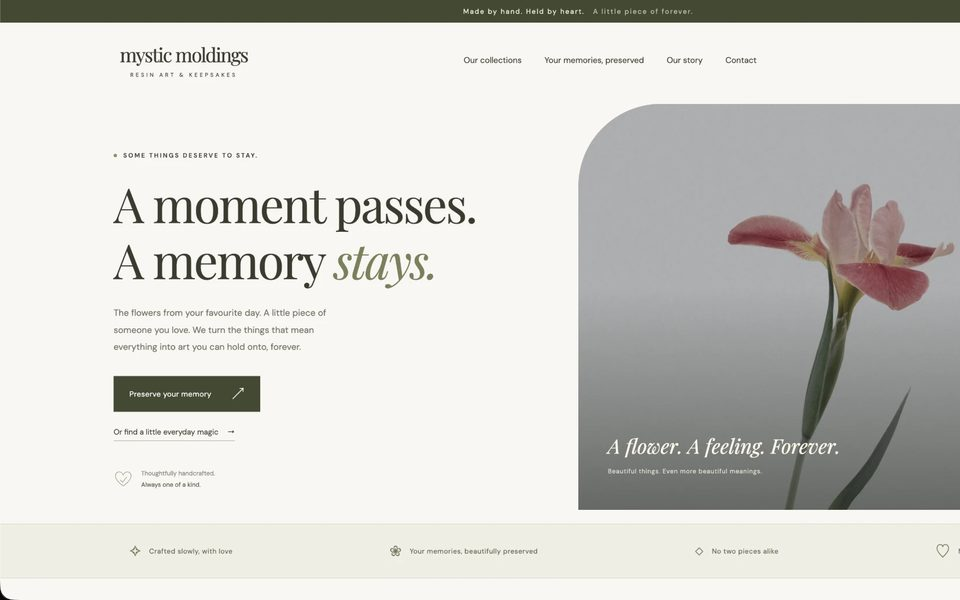
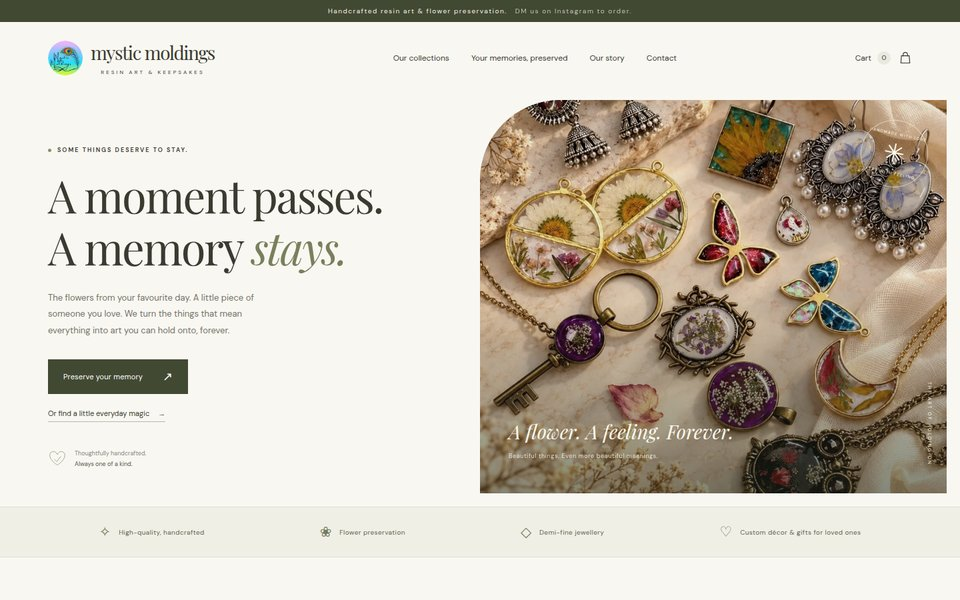
Update Mystic Moldings thumbnail to the redesigned site (#4)
Re-captured resin.sociobees.in's homepage (from the mysticmoldings repo) at
1440x900, scaled to 960x600 like the other work cards. Add ?v=2 so browsers
don't keep the old cached image.

Claude-Session: https://claude.ai/code/session_011ZMoPhypb2z3ShMVLpPe79

diff --git a/index.html b/index.html
@@ -278,7 +278,7 @@
             <a class="link" href="https://tools.sociobees.in" target="_blank" rel="noopener">tools.sociobees.in →</a>
           </article>
           <article class="card">
-            <div class="card-media has-img"><img src="work/resin.jpg" alt="Mystic Moldings homepage — handmade resin art and keepsakes" loading="lazy" width="960" height="600"></div>
+            <div class="card-media has-img"><img src="work/resin.jpg?v=2" alt="Mystic Moldings homepage — handmade resin art and keepsakes" loading="lazy" width="960" height="600"></div>
             <span class="card-tag">Web + Ecommerce</span>
             <h3>Mystic Moldings</h3>
             <p>Handmade resin art and keepsake brand — preserved-flower pieces made to order.</p>

diff --git a/work.html b/work.html
@@ -70,7 +70,7 @@
       <a class="link" href="https://tools.sociobees.in" target="_blank" rel="noopener">tools.sociobees.in →</a>
     </article>
     <article class="card">
-      <div class="card-media has-img"><img src="work/resin.jpg" alt="Mystic Moldings homepage — handmade resin art and keepsakes" loading="lazy" width="960" height="600"></div>
+      <div class="card-media has-img"><img src="work/resin.jpg?v=2" alt="Mystic Moldings homepage — handmade resin art and keepsakes" loading="lazy" width="960" height="600"></div>
       <span class="card-tag">Web + Ecommerce</span>
       <h3>Mystic Moldings</h3>
       <p>Handmade resin art and keepsake brand — preserved-flower pieces made to order.</p>
